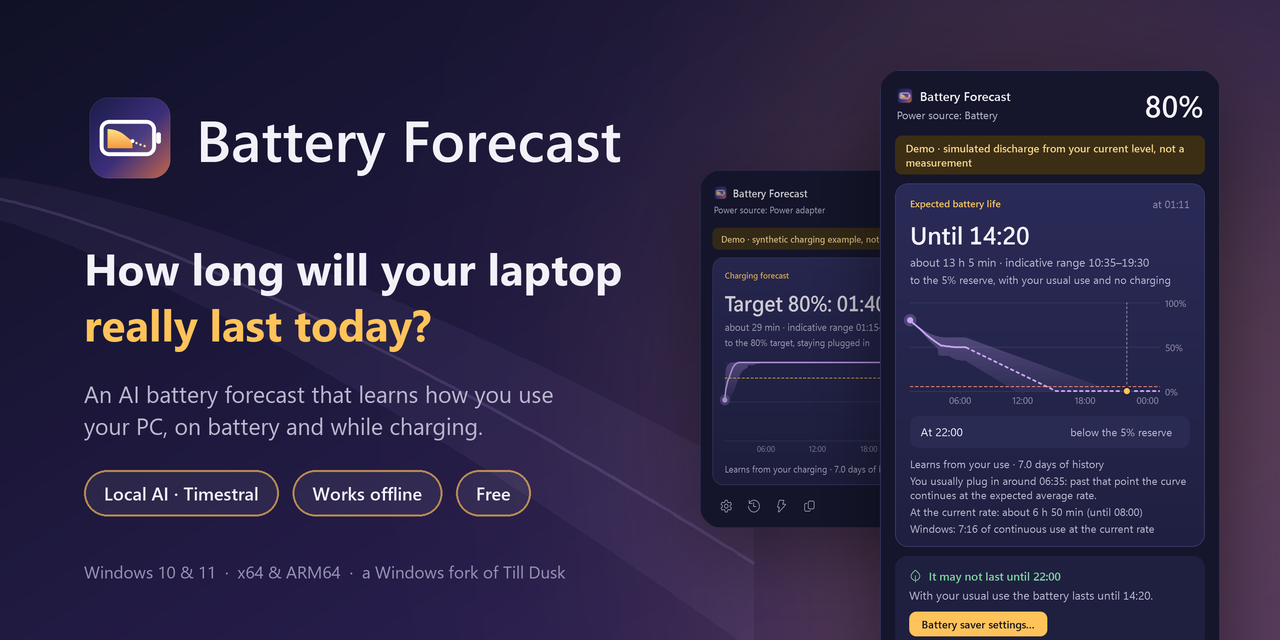
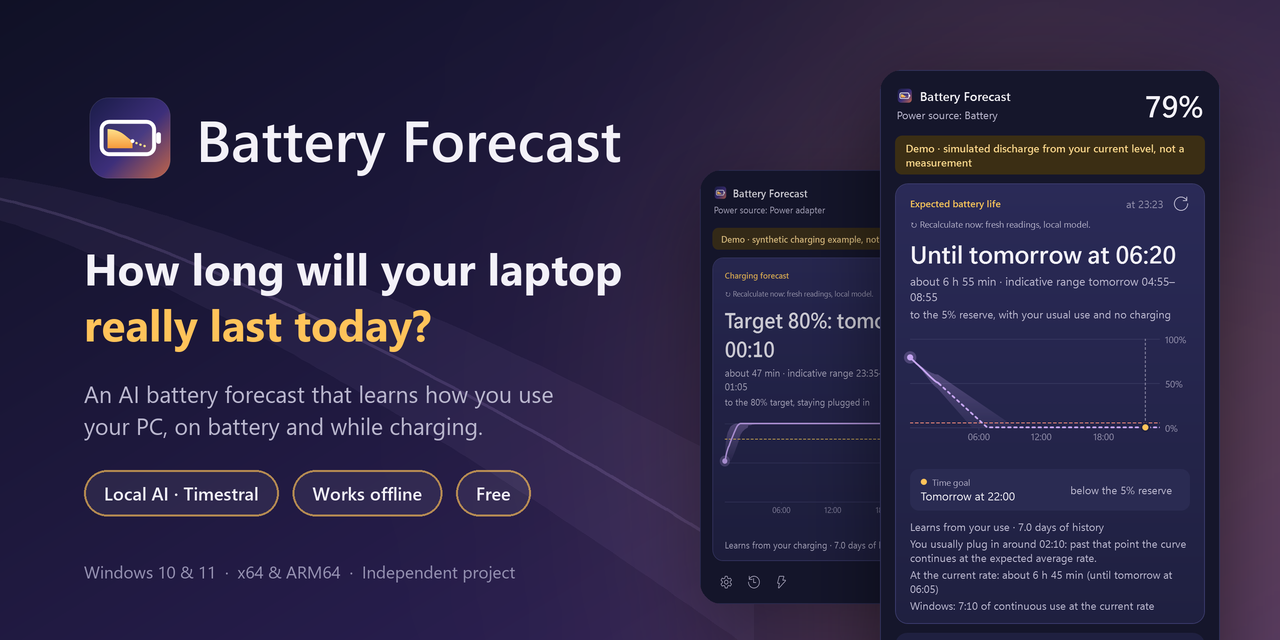
Present Battery Forecast as an independent Windows project

diff --git a/site/index.html b/site/index.html
@@ -285,12 +285,12 @@
   <footer>
     <div class="wrap row">
       <div>
-        <div>Battery Forecast is a Windows fork of <a href="https://github.com/mattBonfanti/till-dusk">Till Dusk</a> by Matteo Bonfanti (MIT).</div>
+        <div>Battery Forecast is an independent Windows project. It began as an adaptation of <a href="https://github.com/mattBonfanti/till-dusk">Till Dusk</a> by Matteo Bonfanti (MIT).</div>
         <div>Forecasts by <a href="https://github.com/mistralai/timestral">Timestral</a> (Mistral AI): code Apache-2.0, weights under their modified MIT license. Independent of Matteo Bonfanti and Mistral AI; no endorsement is implied.</div>
         <div>Battery Forecast’s code is free software under the GNU GPL v3 or later; it does not replace third-party terms. The model weights have a company/employer revenue condition (global consolidated monthly revenue exceeding USD 20 million in the preceding month).
         <a href="https://github.com/Mattboxx/battery-forecast/blob/main/licenses/vendor/Timestral-28M-LICENSE.txt">Read the full model terms</a> · <a href="https://github.com/Mattboxx/battery-forecast/blob/main/docs/LICENSE_AUDIT.md">Distribution audit</a>.</div>
         <div>Native runtimes also have supplier terms (including Intel OpenMP/oneMKL on x64, ArmPL on ARM64 and Microsoft Visual C++). The installer includes their original agreements and offline notices.</div>
-        <div>Donations through GitHub Sponsors or Ko-fi go to Mattboxx and fund this independent Windows port, not the original authors.</div>
+        <div>Donations through GitHub Sponsors or Ko-fi fund Battery Forecast development by Mattboxx.</div>
       </div>
       <a class="support-button" href="#support-options" data-support aria-haspopup="dialog" aria-controls="support-options">♥ Support this project</a>
     </div>
@@ -301,7 +301,7 @@
     <form method="dialog" class="dl-close-form"><button class="dl-x" aria-label="Close support options">✕</button></form>
     <img class="dl-icon" src="assets/icon.svg" alt="" width="56" height="56">
     <h2 id="support-title" tabindex="-1">Support Battery Forecast</h2>
-    <p class="dl-sub" id="support-description">Choose where you’d like to support this independent Windows port.</p>
+    <p class="dl-sub" id="support-description">Choose where you’d like to support Battery Forecast.</p>
     <div class="dl-choices">
       <a class="dl-card support-choice" href="https://github.com/sponsors/Mattboxx" target="_blank" rel="noopener noreferrer">
         <svg viewBox="0 0 24 24" aria-hidden="true"><path d="M20.8 4.6a5.5 5.5 0 0 0-7.8 0L12 5.7l-1-1.1a5.5 5.5 0 0 0-7.8 7.8l1 1.1L12 21l7.8-7.5 1-1.1a5.5 5.5 0 0 0 0-7.8z"/></svg>
@@ -314,7 +314,7 @@
         <small>Leave a tip or support the project through Ko-fi.</small>
       </a>
     </div>
-    <p class="dl-hint">Both support Mattboxx’s Windows port. Your chosen platform opens in a new tab.</p>
+    <p class="dl-hint">Both support development by Mattboxx. Your chosen platform opens in a new tab.</p>
   </dialog>
 
   <script>

diff --git a/tools/banner.py b/tools/banner.py
@@ -124,7 +124,7 @@ def main():
     for t in ("Local AI · Timestral", "Works offline", "Free"):
         x = pill(img, x, 470 * S, t, pf)
     d = ImageDraw.Draw(img)
-    d.text((x0, 560 * S), "Windows 10 & 11  ·  x64 & ARM64  ·  a Windows fork of Till Dusk",
+    d.text((x0, 560 * S), "Windows 10 & 11  ·  x64 & ARM64  ·  Independent project",
            font=font("segoeui.ttf", 17), fill=(150, 146, 178))
 
     a.out.parent.mkdir(parents=True, exist_ok=True)

diff --git a/README.md b/README.md
@@ -7,7 +7,7 @@
 <p align="center">
   <b>How long will your Windows laptop really last today?</b><br>
   An AI battery forecast that learns how you use your PC, and runs entirely on it.<br>
-  <sub>Powered by <a href="https://github.com/mistralai/timestral">Timestral</a> · a Windows fork of <a href="https://github.com/mattBonfanti/till-dusk">Till Dusk</a></sub>
+  <sub>Independent Windows project · Powered by <a href="https://github.com/mistralai/timestral">Timestral</a></sub>
 </p>
 
 <p align="center">
@@ -188,9 +188,9 @@ because PyInstaller packages the Python it runs on.
 
 ## Credits and licenses
 
-- **Battery Forecast** is a fork of **[Till Dusk](https://github.com/mattBonfanti/till-dusk) by Matteo Bonfanti**,
-  the original macOS menu-bar app, released under the MIT license. The idea, the forecast approach and the
-  wording of many messages come from it.
+- **Battery Forecast** began as a Windows adaptation of **[Till Dusk](https://github.com/mattBonfanti/till-dusk)
+  by Matteo Bonfanti**, the MIT-licensed macOS menu-bar app. Battery Forecast now develops its Windows app
+  and forecasting pipeline independently. The original MIT notice is preserved in [NOTICE](NOTICE).
 - **[Timestral](https://github.com/mistralai/timestral)** by Mistral AI: code under Apache 2.0, Timestral-28M weights
   under a modified MIT license (its exact text is in [`licenses/`](licenses) and inside the installer; it includes a
   company/employer revenue condition detailed below). Battery Forecast is not affiliated with Mistral AI.
@@ -209,9 +209,8 @@ the full original text also addresses derivatives and combined works. This is no
 Read the [original terms](licenses/vendor/Timestral-28M-LICENSE.txt) and [distribution audit](docs/LICENSE_AUDIT.md).
 The GPL applies to Battery Forecast's own code; it does not change the terms of the bundled components.
 
-Battery Forecast is an independent adaptation and is not an official or endorsed product of Matteo
-Bonfanti or Mistral AI. Donations to Mattboxx through GitHub Sponsors or Ko-fi fund this Windows port; they are not donations
-to the original authors. Their copyright and attribution notices are preserved in every package.
+Battery Forecast is an independent project maintained by Mattboxx. Donations through GitHub Sponsors or
+Ko-fi fund its development. Copyright and attribution notices are preserved in every package.
 
 ## Support
 

diff --git a/docs/README.it.md b/docs/README.it.md
@@ -8,7 +8,7 @@
 <p align="center">
   <b>Quanto durerà davvero oggi la batteria del tuo portatile Windows?</b><br>
   Una previsione con l'intelligenza artificiale che impara come usi il PC, e gira tutta sul PC.<br>
-  <sub>Con <a href="https://github.com/mistralai/timestral">Timestral</a> · fork per Windows di <a href="https://github.com/mattBonfanti/till-dusk">Till Dusk</a></sub>
+  <sub>Progetto indipendente per Windows · Con <a href="https://github.com/mistralai/timestral">Timestral</a></sub>
 </p>
 
 <p align="center">
@@ -139,8 +139,9 @@ Requisiti: Windows 10 2004 o Windows 11, x64 o ARM64, circa 280 MB da scaricare.
 
 ## Crediti e licenze
 
-- Battery Forecast è un fork di **[Till Dusk](https://github.com/mattBonfanti/till-dusk) di Matteo Bonfanti**
-  (licenza MIT), l'app originale per la barra dei menu di macOS.
+- Battery Forecast è nato come adattamento Windows di **[Till Dusk](https://github.com/mattBonfanti/till-dusk)
+  di Matteo Bonfanti**, l'app per la barra dei menu di macOS rilasciata con licenza MIT. Oggi l'app Windows
+  e il sistema di previsione sono sviluppati in modo indipendente. L'avviso MIT originale è conservato in [NOTICE](../NOTICE).
 - **[Timestral](https://github.com/mistralai/timestral)** di Mistral AI: codice Apache 2.0, pesi Timestral-28M
   sotto licenza MIT modificata (testo esatto in [`licenses/`](../licenses), con la condizione su azienda e
   datore di lavoro descritta sotto). Battery Forecast non è affiliato a Mistral AI.
@@ -158,9 +159,8 @@ oltre 20 milioni di dollari (o equivalente) **nel mese precedente**, e menziona 
 combinate. Leggi i [termini originali completi](../licenses/vendor/Timestral-28M-LICENSE.txt) e
 l’[audit di distribuzione](LICENSE_AUDIT.md). Nessuna certificazione generale di conformità è dichiarata.
 
-Battery Forecast è un adattamento indipendente, non un prodotto ufficiale o approvato da Matteo
-Bonfanti o Mistral AI. Le donazioni a Mattboxx tramite GitHub Sponsors o Ko-fi sostengono il porting Windows, non gli autori
-originali. Copyright e attribuzioni sono conservati nel pacchetto.
+Battery Forecast è un progetto indipendente mantenuto da Mattboxx. Le donazioni tramite GitHub Sponsors
+o Ko-fi ne sostengono lo sviluppo. Copyright e attribuzioni sono conservati nel pacchetto.
 
 ## Sostegno
 

diff --git a/docs/UPSTREAM.md b/docs/UPSTREAM.md
@@ -13,13 +13,8 @@
 The weights' `LICENSE` file at the pinned 28M and 5M revisions is byte-identical (ignoring line endings)
 to `licenses/Timestral-28M-pesi-MIT-modificata.txt`, the text shipped by the original Till Dusk.
 
-## Relationship with upstream
+## Project origins
 
-Battery Forecast is a fork of Till Dusk. The macOS sources (`app/`, `scripts/`) were removed from this
-repository to keep it focused on Windows; they remain in the Git history and in the original repository.
-Ideas worth porting from upstream can be compared with:
-
-```bash
-git fetch upstream
-git log --oneline main..upstream/main
-```
+Battery Forecast began as a Windows adaptation of Till Dusk. The Windows app and forecasting pipeline
+are now developed independently. The original macOS sources (`app/`, `scripts/`) remain in the Git
+history and in the original repository. [NOTICE](../NOTICE) preserves the original MIT attribution.
